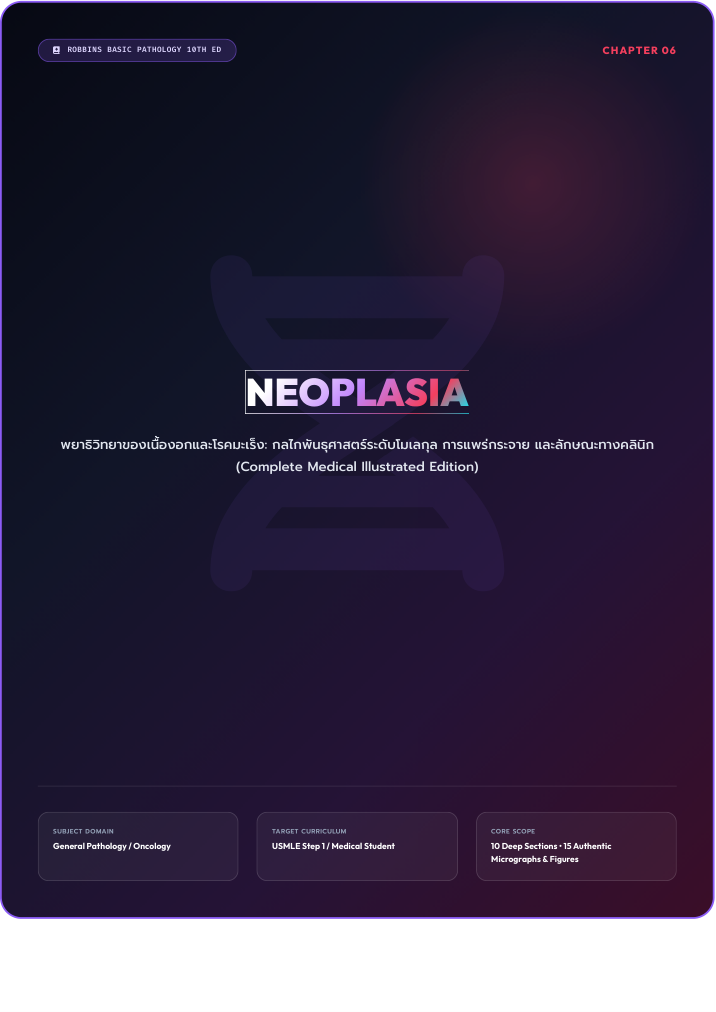
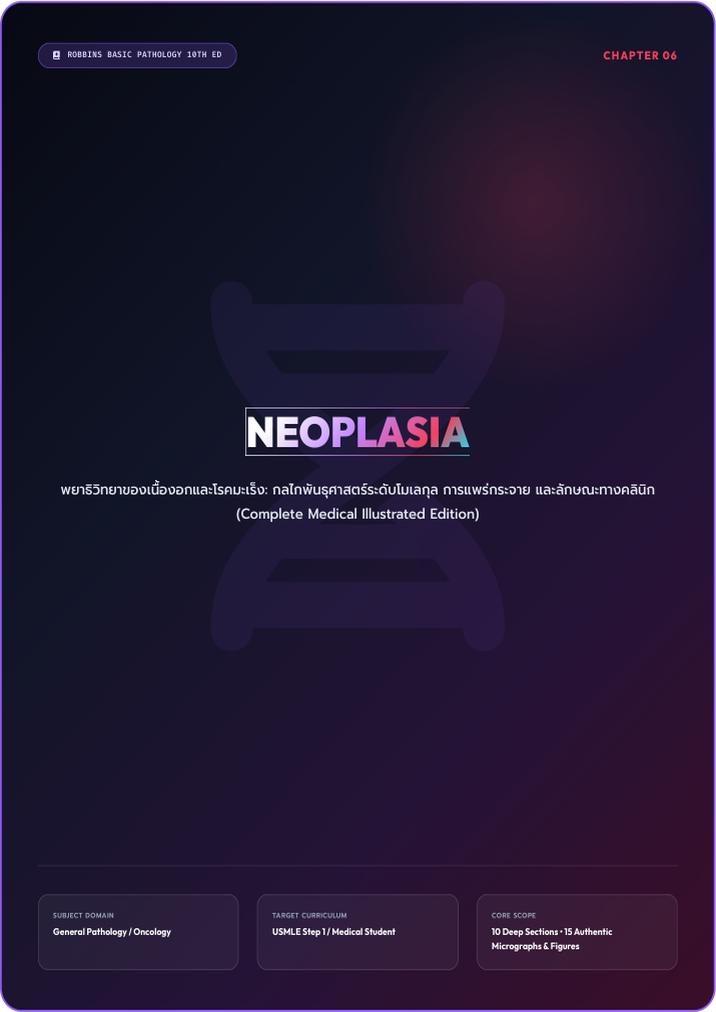
style: lift single purple glow to cover Siriraj topbar, expand neoplasia outer glow, and widen roadmap Y spacing

diff --git a/index.html b/index.html
@@ -152,36 +152,130 @@
   box-shadow: 0 0 30px rgba(165, 138, 255, 0.35) !important;
   filter: drop-shadow(0 0 8px rgba(165, 138, 255, 0.25));
 }
+.step-icon-dna {
+  color: #c4b5fd !important;
+  background: #1f1635 !important;
+  border-color: #8b5cf6 !important;
+  box-shadow: 0 0 35px rgba(139, 92, 246, 0.6) !important;
+  filter: drop-shadow(0 0 12px rgba(139, 92, 246, 0.5)) !important;
+}
 
-/* Hero right side seamless full-bleed gradient */
-/* Clean single purple glow in upper-right fading into pure matte black */
+/* Single atmospheric purple glow lifted up to the very top to cover Siriraj dedication and cascade down into pure matte black */
+main {
+  position: relative;
+  overflow: visible;
+}
+main::before {
+  content: '';
+  position: absolute;
+  top: -50px;
+  right: -50px;
+  width: 100%;
+  height: 980px;
+  background: radial-gradient(ellipse 950px 550px at 72% 0%, rgba(147, 51, 234, 0.28) 0%, rgba(126, 34, 206, 0.14) 42%, rgba(88, 28, 135, 0.04) 68%, transparent 85%);
+  pointer-events: none;
+  z-index: 0;
+}
 .hero {
   position: relative;
   overflow: visible;
 }
 .hero::before {
-  content: '';
-  position: absolute;
-  inset: -60px -80px -40px 0;
-  background: radial-gradient(ellipse at 80% 22%, rgba(139, 92, 246, 0.22) 0%, rgba(124, 58, 237, 0.07) 38%, transparent 65%);
-  pointer-events: none;
+  display: none !important;
+}
+.topbar, .hero {
+  position: relative;
+  z-index: 1;
 }
 
-/* Dotted connector lines extending cleanly all the way down to the card */
-.road-connector {
-  margin-bottom: 0;
-  padding-bottom: 0;
+/* Roadmap containers allow outer glows to freely radiate without clipping */
+#roadmap, .roadmap-section, .roadmap-step, .past-step, .latest-step, .latest-artifacts {
+  overflow: visible !important;
 }
-.road-connector svg {
-  height: calc(100% + 90px);
-  bottom: -90px;
-  top: 0;
+
+/* Neoplasia Breakthrough Flagship Card: Deep, multi-layered atmospheric glow radiating OUTSIDE the border */
+.latest-artifacts .artifact-card:first-child {
+  position: relative;
+  border: 1.5px solid rgba(168, 85, 247, 0.75) !important;
+  box-shadow: 0 0 35px rgba(168, 85, 247, 0.45),
+              0 0 75px rgba(139, 92, 246, 0.28),
+              0 0 120px rgba(124, 58, 237, 0.18),
+              0 20px 45px rgba(0, 0, 0, 0.75) !important;
+  transition: transform 0.4s cubic-bezier(0.16, 1, 0.3, 1),
+              box-shadow 0.4s cubic-bezier(0.16, 1, 0.3, 1),
+              border-color 0.4s ease;
 }
-.past-step {
+.latest-artifacts .artifact-card:first-child:hover {
+  transform: translateY(-6px);
+  border-color: rgba(192, 132, 252, 0.95) !important;
+  box-shadow: 0 0 50px rgba(168, 85, 247, 0.65),
+              0 0 100px rgba(139, 92, 246, 0.4),
+              0 0 150px rgba(124, 58, 237, 0.25),
+              0 28px 65px rgba(0, 0, 0, 0.85) !important;
+}
+
+/* Genetic & Pediatric Diseases companion card in current iteration */
+.latest-artifacts .artifact-card:last-child {
+  position: relative;
+  border: 1.5px solid rgba(245, 158, 11, 0.5) !important;
+  box-shadow: 0 0 28px rgba(245, 158, 11, 0.3),
+              0 0 65px rgba(217, 119, 6, 0.16),
+              0 20px 45px rgba(0, 0, 0, 0.7) !important;
+  transition: transform 0.4s cubic-bezier(0.16, 1, 0.3, 1),
+              box-shadow 0.4s cubic-bezier(0.16, 1, 0.3, 1),
+              border-color 0.4s ease;
+}
+.latest-artifacts .artifact-card:last-child:hover {
+  transform: translateY(-6px);
+  border-color: rgba(251, 191, 36, 0.85) !important;
+  box-shadow: 0 0 45px rgba(245, 158, 11, 0.48),
+              0 0 90px rgba(217, 119, 6, 0.25),
+              0 25px 60px rgba(0, 0, 0, 0.85) !important;
+}
+
+/* Roadmap generous Y-axis spacing: eliminate glow collisions (โกลบังโกล) */
+.roadmap-step {
+  margin-top: 60px;
+  margin-bottom: 90px;
   position: relative;
   z-index: 2;
 }
-
+.roadmap-step.latest-step {
+  margin-top: 35px;
+  margin-bottom: 110px;
+}
+.past-step {
+  margin-top: 80px;
+  margin-bottom: 110px;
+  position: relative;
+  z-index: 2;
+}
+.road-connector {
+  position: relative;
+  min-height: 280px;
+  padding: 85px 0;
+  margin: 50px 0;
+  display: flex;
+  justify-content: center;
+  align-items: center;
+  z-index: 1;
+}
+.road-connector svg {
+  position: absolute;
+  inset: 0;
+  width: 100%;
+  height: 100%;
+  pointer-events: none;
+}
+.transition-note {
+  position: relative;
+  margin: 35px auto;
+  padding: 24px 30px;
+  z-index: 3;
+}
+.past-step .step-heading {
+  margin: 0 auto 36px;
+}
 </style></head><body><svg xmlns="http://www.w3.org/2000/svg" class="icon-definitions" aria-hidden="true"><defs><symbol id="rm-folder" viewBox="0 0 24 24"><path d="M3 7V5a1 1 0 0 1 1-1h5l2 3h9a1 1 0 0 1 1 1v11a1 1 0 0 1-1 1H4a1 1 0 0 1-1-1V7Z"/><path d="M3 9h18"/></symbol><symbol id="rm-books" viewBox="0 0 24 24"><path d="M4 4h4v16H4zM10 4h4v16h-4zM16 5l4-1 3 15-4 1z"/></symbol><symbol id="rm-arrow" viewBox="0 0 24 24"><path d="M7 17 17 7M7 7h10v10"/></symbol><symbol id="rm-dna" viewBox="0 0 24 24"><path d="M6 3c0 9 12 9 12 18M18 3c0 9-12 9-12 18M7 5h10M9 9h6M9 15h6M7 19h10"/></symbol><symbol id="rm-microbe" viewBox="0 0 24 24"><rect x="7" y="5" width="10" height="14" rx="5"/><path d="M9 3 10 5M15 3 14 5M4 8h3M17 8h3M3 13h4M17 13h4M5 19l3-3M16 16l3 3M12 9v1M12 14v1"/></symbol><symbol id="rm-shield" viewBox="0 0 24 24"><path d="m12 3 8 3v6c0 5-8 9-8 9S4 17 4 12V6l8-3Z"/><path d="m8 12 3 3 5-6"/></symbol><symbol id="rm-drop" viewBox="0 0 24 24"><path d="M12 3c-2 4-7 8-7 12a7 7 0 0 0 14 0c0-4-5-8-7-12Z"/><path d="M8 15c0 2 1 3 3 3"/></symbol><symbol id="rm-pulse" viewBox="0 0 24 24"><path d="M2 12h5l3-8 4 16 3-8h5"/></symbol><symbol id="rm-flame" viewBox="0 0 24 24"><path d="M12 3c1 5-4 6-3 10 2-1 4-3 4-5 3 3 6 6 5 9a6 6 0 0 1-12-1c0-5 4-7 6-13Z"/></symbol><symbol id="rm-bolt" viewBox="0 0 24 24"><path d="m13 2-9 12h7l-1 8 10-13h-7l1-7Z"/></symbol><symbol id="rm-cell" viewBox="0 0 24 24"><circle cx="12" cy="12" r="9"/><circle cx="12" cy="12" r="3"/><path d="M7 7h.01M17 9h.01M8 17h.01M17 16h.01"/></symbol><symbol id="rm-spark" viewBox="0 0 24 24"><path d="m12 3 2.5 6.5L21 12l-6.5 2.5L12 21l-2.5-6.5L3 12l6.5-2.5L12 3Z"/></symbol><symbol id="rm-download" viewBox="0 0 24 24"><path d="M12 3v12m-5-5 5 5 5-5M5 16v5h14v-5"/></symbol><symbol id="rm-calendar" viewBox="0 0 24 24"><rect x="3" y="5" width="18" height="16" rx="2"/><path d="M7 3v4M17 3v4M3 11h18M7 15h2M13 15h2"/></symbol></defs></svg>
 <a class="skip" href="#overview">ข้ามไปเนื้อหา</a><div class="progress" aria-hidden="true"></div>
 <aside class="sidebar"><a class="brand" href="#overview">HTML <span>→</span> PDF<span>.</span><small>หลักการ / ผลงาน / บทเรียน</small></a><nav class="main-nav" aria-label="เมนูหลัก"><a href="#overview" class="active"><span>00</span> ภาพรวม</a><a href="#skill"><span>01</span> รู้จัก SKILL.md</a><a href="#roadmap"><span>02</span> Roadmap ผลงาน</a></nav><div class="toc-scroll"><details class="toc-group"><summary>SKILL.md · เปิดดูได้ ไม่จำเป็นต่อการตรวจ</summary><nav class="principle-toc" aria-label="สารบัญหลักการ"><a href="#principle-01"><span>01</span>เลือกภาพจากสิ่งที่ต้องการสอน</a><a href="#principle-02"><span>02</span>ฝังภาพไว้กับเอกสาร ไม่ฝากไว้กับเครือข่าย</a><a href="#principle-03"><span>03</span>ใช้สีให้สัมพันธ์กับเนื้อหาของบท</a><a href="#principle-04"><span>04</span>ให้ปกทำหน้าที่แนะนำทั้งเล่ม</a><a href="#principle-05"><span>05</span>ควบคุมขอบกระดาษและตำแหน่ง bullet</a><a href="#principle-06"><span>06</span>แยกสีและตารางของหน้าจอออกจากงานพิมพ์</a><a href="#principle-07"><span>07</span>เว้นพื้นที่ภาพอย่างตั้งใจสำหรับใบงาน</a><a href="#principle-08"><span>08</span>รักษา backslash ของสูตรใน Python</a><a href="#principle-09"><span>09</span>สร้าง PDF ผ่านกระบวนการเรนเดอร์ที่ทำซ้ำได้</a><a href="#principle-10"><span>10</span>ตรวจจากเกณฑ์ที่ชัดเจน</a><a href="#principle-11"><span>11</span>แก้ขนาดฟอนต์ที่ไม่ยอมเปลี่ยนตาม body</a><a href="#principle-12"><span>12</span>ป้องกันตัวอักษรขาวหายบนพื้นขาว</a><a href="#principle-13"><span>13</span>จัดการชื่อเรื่องไล่สีใน PDF</a><a href="#principle-14"><span>14</span>ให้เนื้อหาไหลต่อ เพื่อลดหน้าที่ว่างเกินไป</a><a href="#principle-15"><span>15</span>แบ่งตารางตามความหมายก่อนแบ่งตามหน้า</a><a href="#principle-16"><span>16</span>กำหนดลำดับขนาดตัวอักษรเป็นระบบ</a><a href="#principle-17"><span>17</span>ลดกรอบ เพื่อให้เนื้อหาอ่านต่อเนื่อง</a><a href="#principle-18"><span>18</span>ดึงภาพจากตำราต้นฉบับอย่างแม่นยำ</a><a href="#principle-19"><span>19</span>วางภาพที่ต้องเปรียบเทียบไว้ข้างกัน</a><a href="#principle-20"><span>20</span>แยก template ออกจากการแทรกข้อมูล</a><a href="#principle-21"><span>21</span>ให้กรอบภาพปรับตามสัดส่วนต้นฉบับ</a><a href="#principle-22"><span>22</span>จับหัวข้อกับตารางให้เป็นหน่วยเดียวกัน</a><a href="#principle-23"><span>23</span>ให้ทุกหน้ามีพื้นที่หายใจ ไม่ใช่เฉพาะหน้าแรก</a><a href="#principle-24"><span>24</span>ไม่ทิ้งบรรทัดโดดเดี่ยวข้ามหน้า</a><a href="#principle-25"><span>25</span>ให้แผนภาพแนวตั้งอยู่ข้างคำอธิบาย</a><a href="#principle-26"><span>26</span>ตรวจเฉพาะสิ่งที่เปลี่ยน และใช้ข้อมูลช่วยตรวจ</a><a href="#principle-27"><span>27</span>จัดจังหวะทั้ง section และเก็บรายละเอียดภายใน</a></nav></details><details class="toc-group"><summary>Roadmap · ล่าสุด → เก่าสุด</summary><nav class="roadmap-toc" aria-label="สารบัญผลงาน"><a href="#roadmap-latest">ปัจจุบัน · Neoplasia + Genetic</a><a href="#roadmap-8">Chapter 8 · Infectious Diseases</a><a href="#roadmap-6">Chapter 6 · Immune System</a><a href="#roadmap-4">Chapter 4 · Hemodynamics</a><a href="#roadmap-11">Chapter 11 · Blood Vessels</a><a href="#roadmap-3">Chapter 3 · Inflammation</a><a href="#roadmap-2">Chapter 2 · Cell Injury</a><a href="#roadmap-1">Chapter 1 · Cellular Pathology</a></nav></details></div><div class="side-footer"><a href="https://github.com/onlie-decoder/robbins-pathology-neoplasia">Source on GitHub ↗</a></div></aside>
